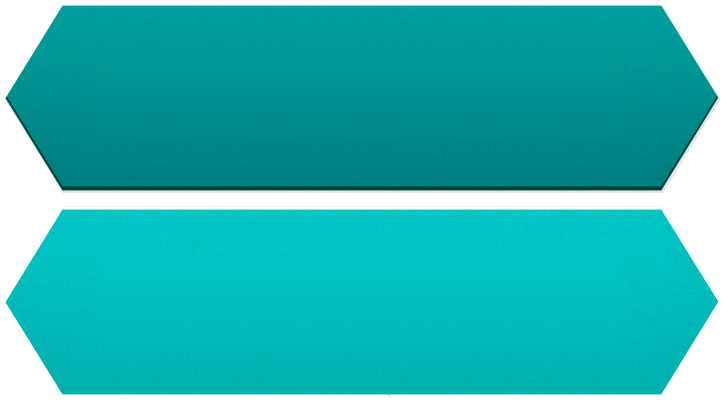
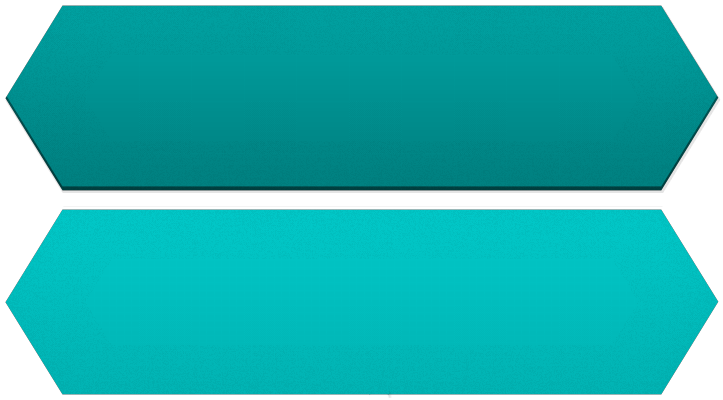
Optimise images to load faster.
Maybe some are too optimised, let's try.

diff --git a/app/assets/stylesheets/demo/product.less b/app/assets/stylesheets/demo/product.less
@@ -16,7 +16,7 @@ body.product {
             background: transparent url("../images/border-top.png") repeat-x bottom left;
             .inner {
                 padding-bottom: 7%;
-                background: transparent url("../images/border-green.jpg") repeat-x top left;
+                background: transparent url("../images/border-green.png") repeat-x top left;
                 .body { padding-bottom: 22px; }
             }
         }
